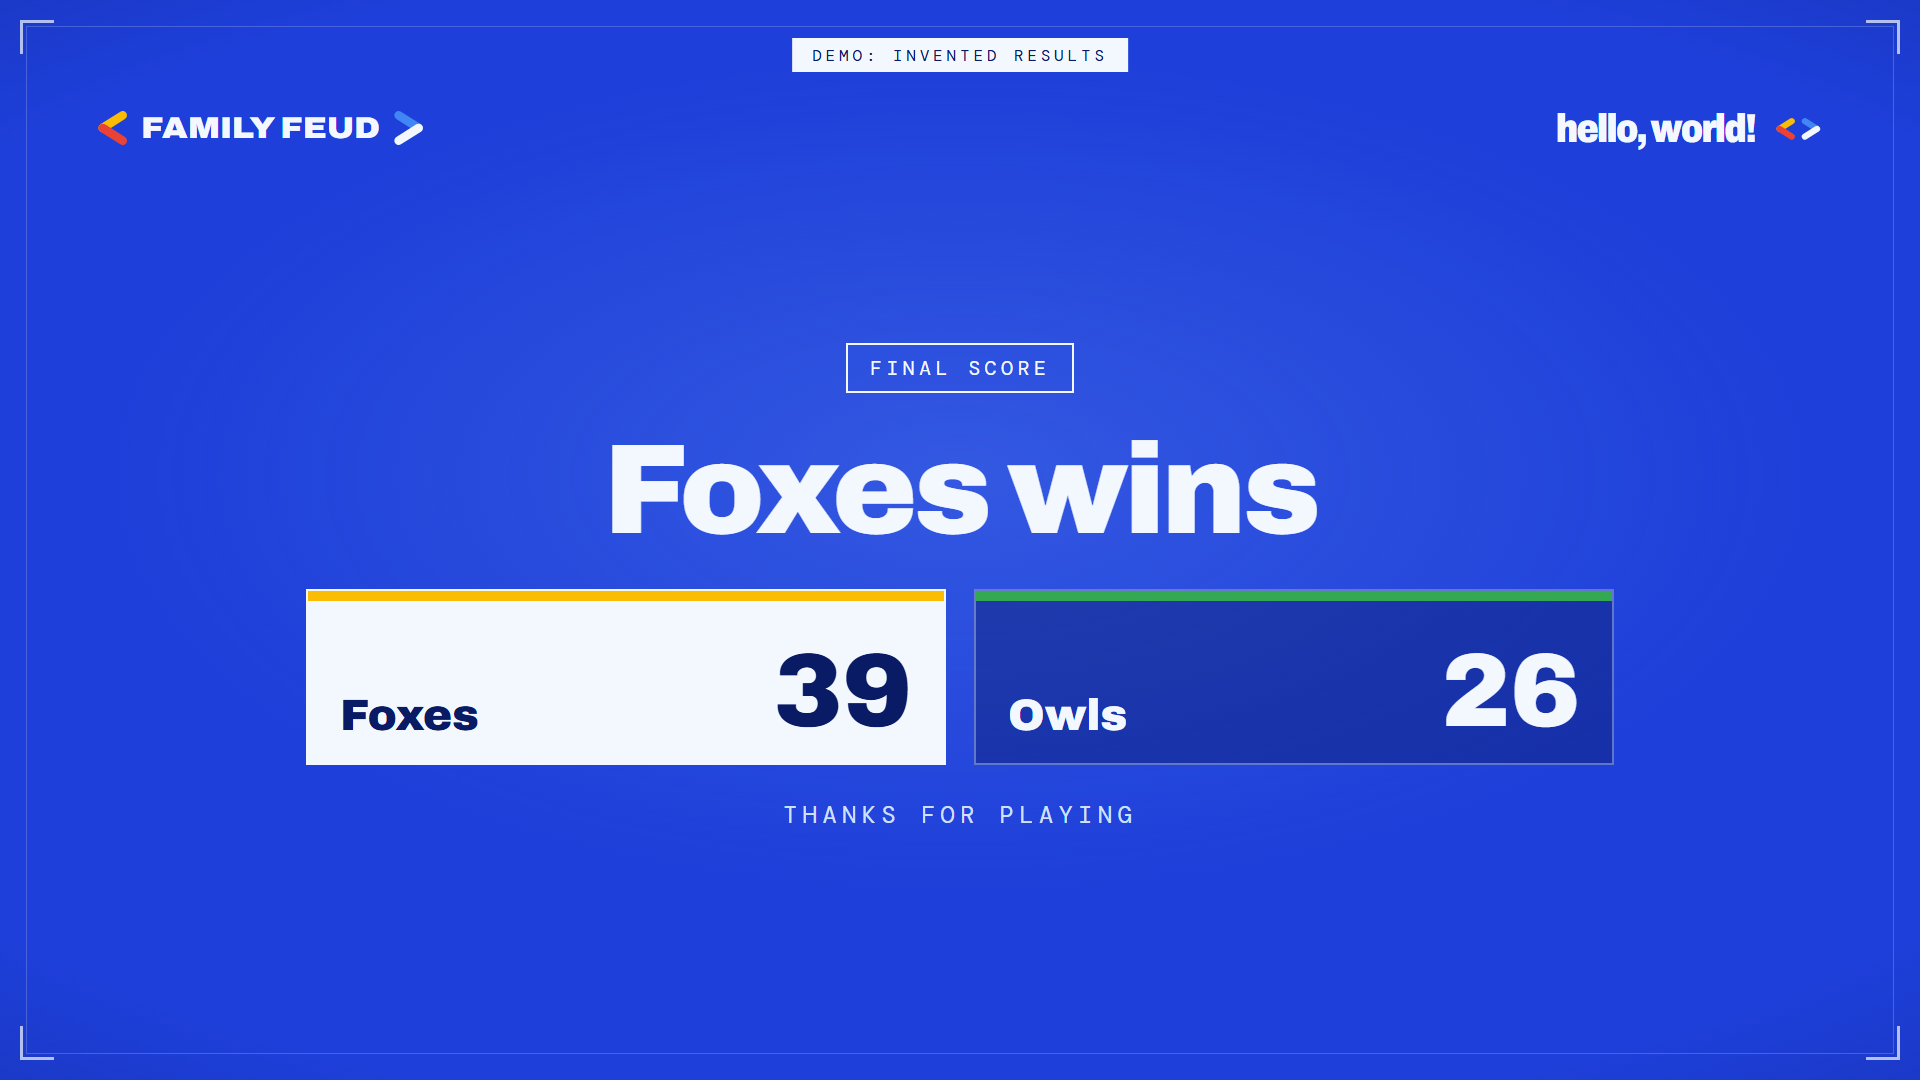
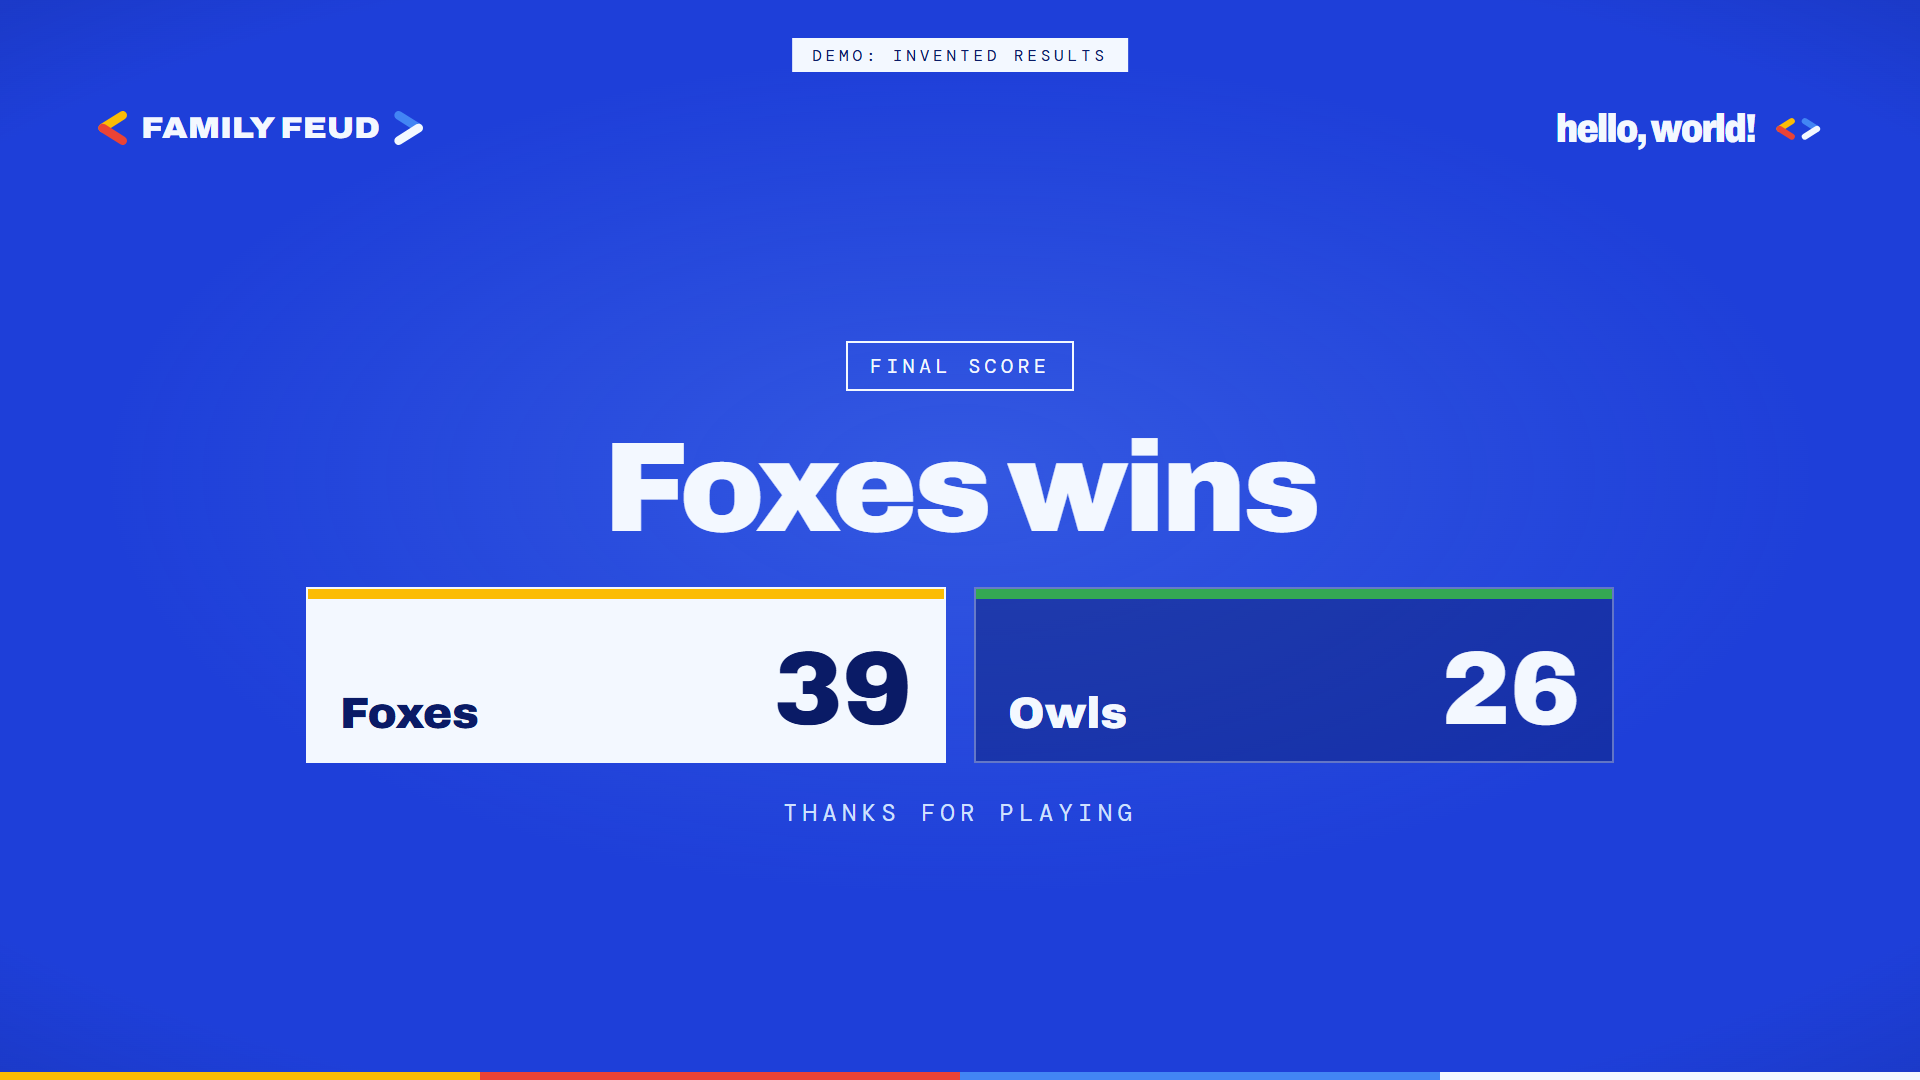
Projector: drop the HUD corner marks and hairline frame for a flush four-colour bottom rule

diff --git a/src/styles/app.css b/src/styles/app.css
@@ -26,22 +26,17 @@ a { color: inherit; }
 .screen {
   --team-a: #FBBC04; --team-b: #34A853;
   --frame: rgba(243, 248, 255, 0.34); --well: rgba(10, 27, 102, 0.42);
-  position: absolute; inset: 0; padding: 92px 96px 60px; display: flex; flex-direction: column; overflow: hidden;
+  position: absolute; inset: 0; padding: 92px 96px 64px; display: flex; flex-direction: column; overflow: hidden;
   background-color: var(--cobalt);
   background-image:
     radial-gradient(ellipse 62% 54% at 50% 44%, rgba(127, 178, 255, 0.22), rgba(127, 178, 255, 0) 72%),
     radial-gradient(ellipse 115% 95% at 50% 50%, rgba(10, 27, 102, 0) 58%, rgba(10, 27, 102, 0.62) 100%);
 }
-/* a crisp frost frame inside the edge, with square corner marks */
-.screen::before { content: ""; position: absolute; inset: 26px; border: 1px solid rgba(243, 248, 255, 0.2); pointer-events: none; }
+/* no frame or corner marks: the stage is lit from inside, and its only edge detail is the club's four colours as a
+   flush rule on the bottom edge, in the order the mark reads left to right */
 .screen::after {
-  content: ""; position: absolute; inset: 20px; pointer-events: none;
-  background:
-    linear-gradient(var(--frost), var(--frost)) top left / 34px 3px no-repeat, linear-gradient(var(--frost), var(--frost)) top left / 3px 34px no-repeat,
-    linear-gradient(var(--frost), var(--frost)) top right / 34px 3px no-repeat, linear-gradient(var(--frost), var(--frost)) top right / 3px 34px no-repeat,
-    linear-gradient(var(--frost), var(--frost)) bottom left / 34px 3px no-repeat, linear-gradient(var(--frost), var(--frost)) bottom left / 3px 34px no-repeat,
-    linear-gradient(var(--frost), var(--frost)) bottom right / 34px 3px no-repeat, linear-gradient(var(--frost), var(--frost)) bottom right / 3px 34px no-repeat;
-  opacity: 0.7;
+  content: ""; position: absolute; left: 0; right: 0; bottom: 0; height: 8px; pointer-events: none;
+  background: linear-gradient(90deg, #FBBC04 0 25%, #EA4335 25% 50%, #4285F4 50% 75%, var(--frost) 75% 100%);
 }
 .demo-banner { position: absolute; left: 0; right: 0; top: 0; height: 34px; z-index: 6; display: grid; place-items: center; background: var(--frost); color: var(--cobalt-deep); font-family: var(--font-mono); font-size: 18px; letter-spacing: 0.22em; font-weight: 400; }
 .demo-banner--phone { position: static; height: auto; padding: 8px 12px; margin: 0 -16px 8px; font-size: 13px; }

diff --git a/README.md b/README.md
@@ -101,7 +101,7 @@ House rules (proposed, not set by the organisers):
 
 The projector uses a fixed 1920×1080 stage. It scales to any screen, centred, with even bars on other aspect ratios, so the layout never reflows or crops.
 
-Every state is one centred composition inside a frost frame:
+Every state is one centred composition on the ice, with the club's four colours as a thin rule on the bottom edge:
 - **Title card:** the club line, the cracked *hello, world!* wordmark (its fracture fades out before the text), a large FAMILY FEUD title plate, and the two teams with equal weight.
 - **Question introduction.**
 - **The framed answer board:**
